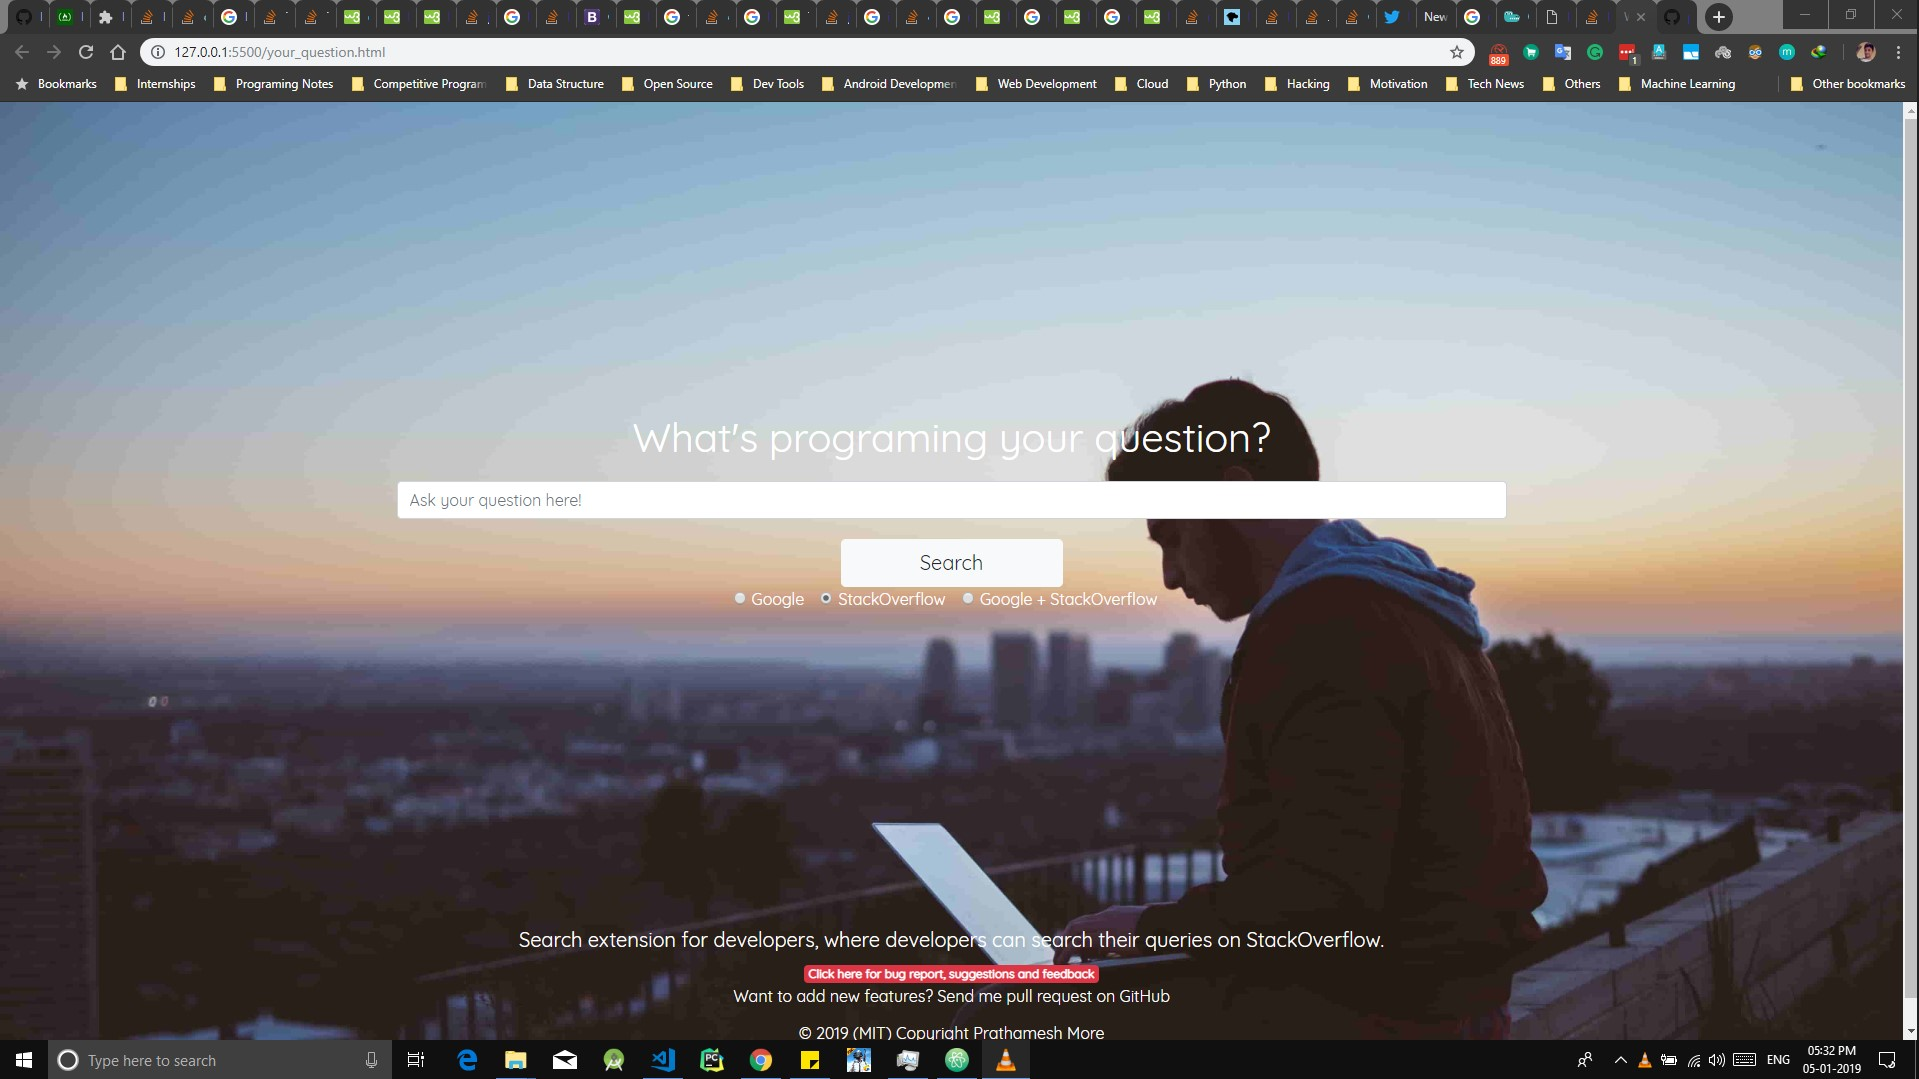
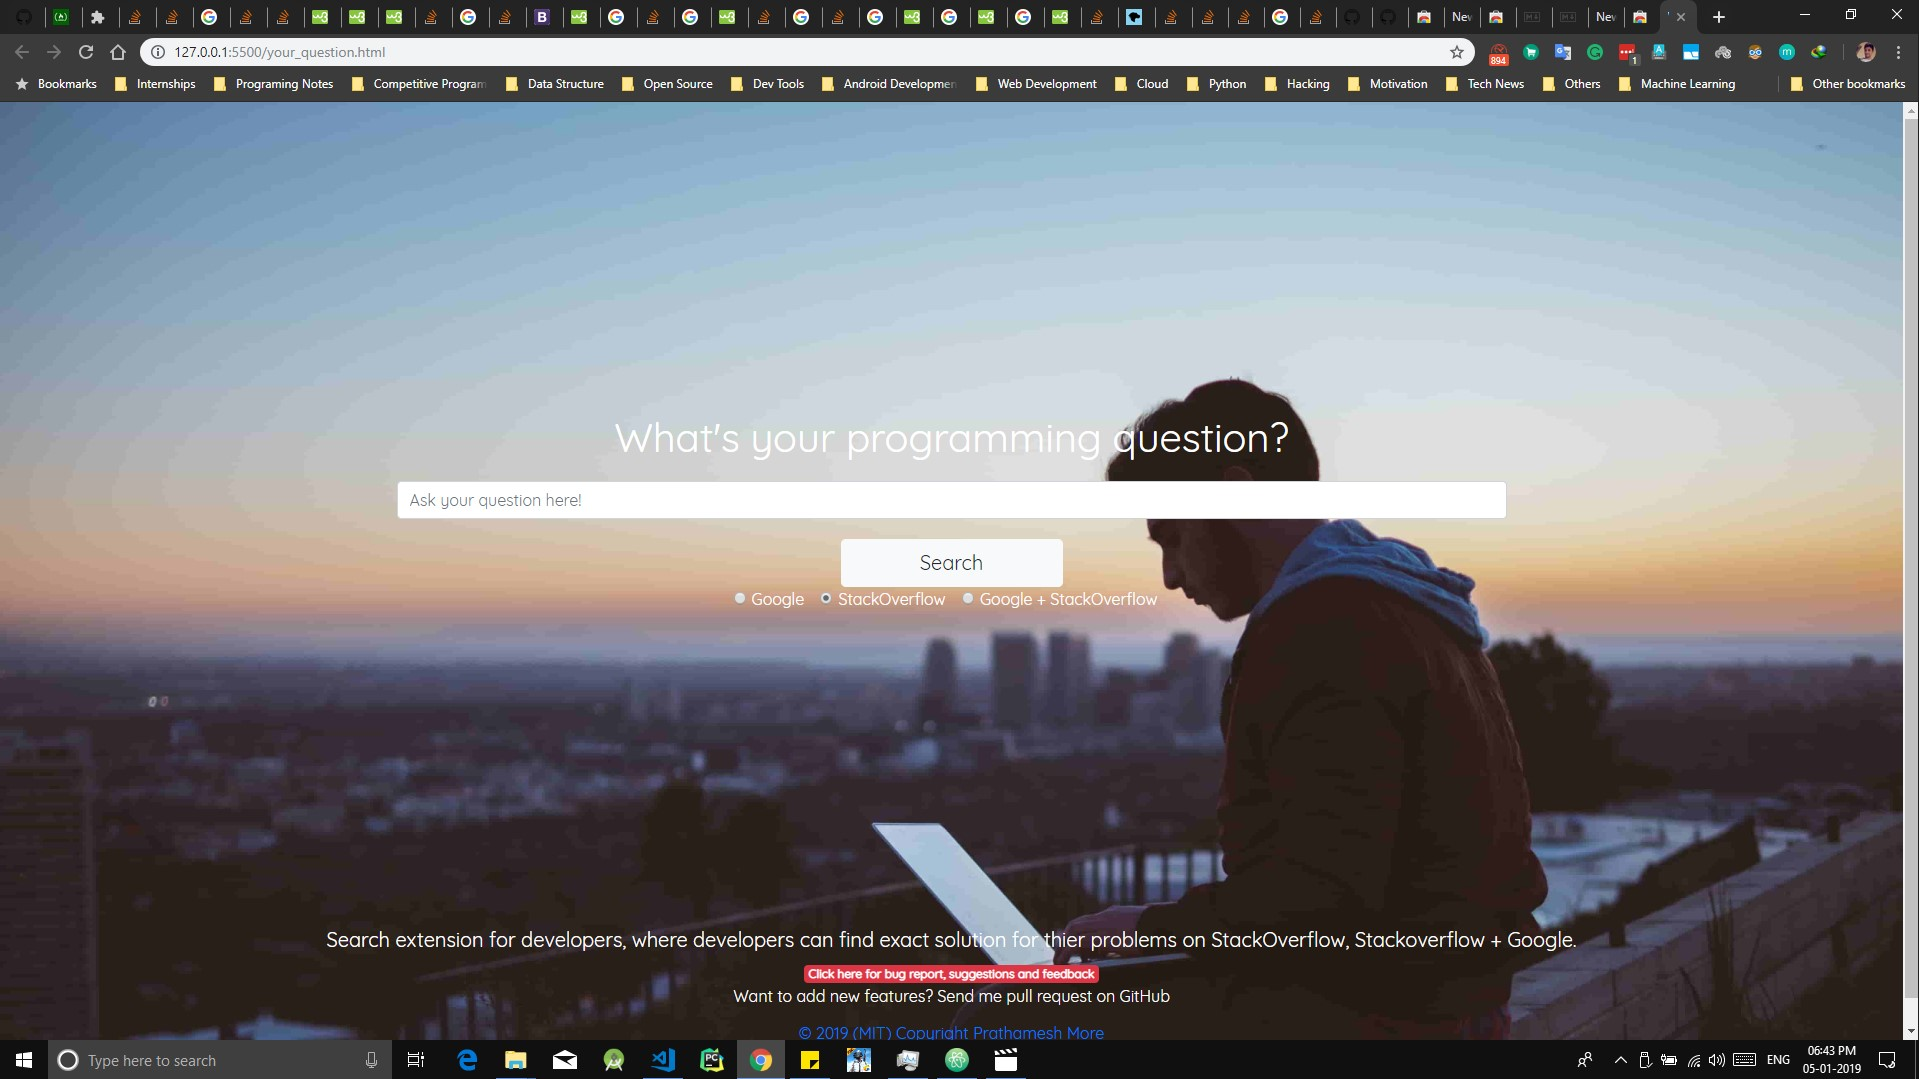
Minnor update

diff --git a/your_question.html b/your_question.html
@@ -17,7 +17,7 @@
     <div class="container">
         <div class="center-content">
             <div>
-                <h1 class="white-text">What's programing your question?</h1>
+                <h1 class="white-text">What's your programming question?</h1>
                 <div>
                     <input id="input-query" class="form-control" type="text" aria-label="Large" placeholder="Ask your question here!">
                     <button id="search-btn" onclick="searchQuestion()" class="btn-size btn btn btn-light btn-lg">Search</button>
